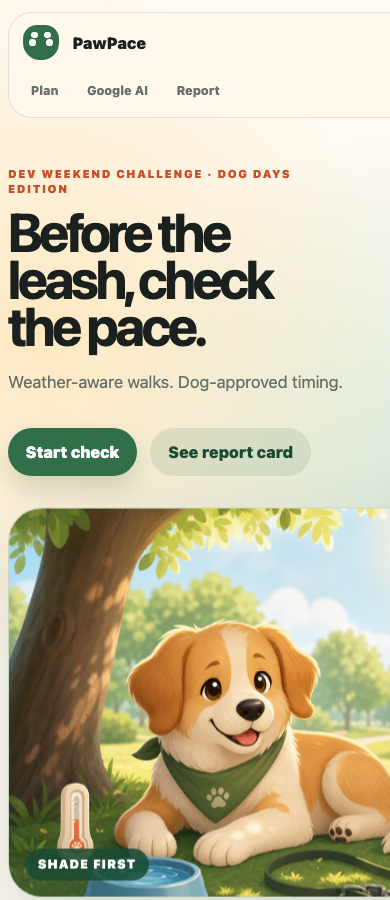
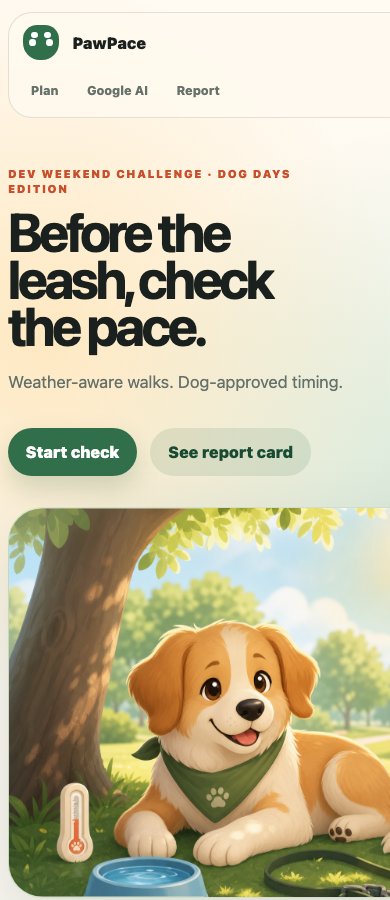
Animate PawPace dog hero without text badge

diff --git a/dog-days/styles.css b/dog-days/styles.css
@@ -279,6 +279,7 @@ select:focus-visible,
     linear-gradient(120deg, rgba(255, 255, 255, 0.26), transparent 28%),
     radial-gradient(circle at 78% 18%, rgba(255, 211, 91, 0.28), transparent 20%);
   pointer-events: none;
+  z-index: 1;
 }
 
 .hero-dog-image {
@@ -289,21 +290,62 @@ select:focus-visible,
   object-fit: cover;
   object-position: 50% center;
   transform: scale(1.015);
+  animation: hero-image-drift 9s ease-in-out infinite;
 }
 
-.heat-badge {
+.sun-pulse,
+.leaf-drift,
+.water-shimmer {
   position: absolute;
-  left: 1rem;
-  bottom: 1rem;
-  padding: 0.55rem 0.8rem;
-  color: #fff;
-  font-size: 0.78rem;
-  font-weight: 950;
-  letter-spacing: 0.08em;
-  text-transform: uppercase;
-  border-radius: 999px;
-  background: rgba(24, 75, 50, 0.86);
-  box-shadow: 0 12px 28px rgba(24, 75, 50, 0.18);
+  z-index: 2;
+  pointer-events: none;
+}
+
+.sun-pulse {
+  top: 10%;
+  right: 7%;
+  width: 7.5rem;
+  aspect-ratio: 1;
+  border-radius: 50%;
+  background: radial-gradient(circle, rgba(255, 221, 107, 0.38), transparent 66%);
+  animation: sun-soft-pulse 4.8s ease-in-out infinite;
+}
+
+.leaf-drift {
+  width: 1.25rem;
+  height: 0.62rem;
+  border-radius: 100% 0 100% 0;
+  background: rgba(122, 167, 47, 0.76);
+  filter: drop-shadow(0 0.25rem 0.35rem rgba(24, 75, 50, 0.14));
+}
+
+.leaf-one {
+  top: 13%;
+  left: 19%;
+  animation: leaf-float-one 8s ease-in-out infinite;
+}
+
+.leaf-two {
+  top: 18%;
+  left: 27%;
+  width: 1rem;
+  height: 0.5rem;
+  background: rgba(173, 191, 63, 0.7);
+  animation: leaf-float-two 9.5s ease-in-out infinite;
+}
+
+.water-shimmer {
+  left: 13%;
+  bottom: 14%;
+  width: 11.8rem;
+  height: 4.2rem;
+  border-radius: 50%;
+  background:
+    radial-gradient(ellipse at 45% 43%, rgba(255, 255, 255, 0.46), transparent 12%),
+    linear-gradient(100deg, transparent 0 42%, rgba(255, 255, 255, 0.34) 48%, transparent 56%);
+  mix-blend-mode: screen;
+  opacity: 0.45;
+  animation: water-glint 3.4s ease-in-out infinite;
 }
 
 .section-heading {
@@ -693,6 +735,64 @@ input[type="radio"] {
   }
 }
 
+@keyframes hero-image-drift {
+  0%,
+  100% {
+    transform: scale(1.015) translate3d(0, 0, 0);
+  }
+  50% {
+    transform: scale(1.035) translate3d(-0.35rem, -0.2rem, 0);
+  }
+}
+
+@keyframes sun-soft-pulse {
+  0%,
+  100% {
+    opacity: 0.55;
+    transform: scale(0.94);
+  }
+  50% {
+    opacity: 0.9;
+    transform: scale(1.08);
+  }
+}
+
+@keyframes leaf-float-one {
+  0%,
+  100% {
+    transform: translate3d(0, 0, 0) rotate(12deg);
+    opacity: 0.34;
+  }
+  50% {
+    transform: translate3d(1.2rem, 0.65rem, 0) rotate(36deg);
+    opacity: 0.82;
+  }
+}
+
+@keyframes leaf-float-two {
+  0%,
+  100% {
+    transform: translate3d(0, 0, 0) rotate(-18deg);
+    opacity: 0.28;
+  }
+  50% {
+    transform: translate3d(-0.9rem, 0.9rem, 0) rotate(-44deg);
+    opacity: 0.76;
+  }
+}
+
+@keyframes water-glint {
+  0%,
+  100% {
+    transform: translateX(-0.4rem) scaleX(0.94);
+    opacity: 0.22;
+  }
+  50% {
+    transform: translateX(0.55rem) scaleX(1.04);
+    opacity: 0.48;
+  }
+}
+
 @media (max-width: 860px) {
   .site-header {
     align-items: flex-start;
@@ -796,6 +896,22 @@ input[type="radio"] {
   .dog-card {
     width: 100%;
     min-height: 390px;
+  }
+
+  .sun-pulse {
+    right: -1rem;
+    width: 6rem;
+  }
+
+  .leaf-drift {
+    display: none;
+  }
+
+  .water-shimmer {
+    left: 4%;
+    bottom: 5%;
+    width: 7.2rem;
+    height: 2.7rem;
   }
 }
 

diff --git a/dog-days/index.html b/dog-days/index.html
@@ -60,7 +60,10 @@
             src="assets/pawpace-hero-dog-cute.png"
             alt="A happy fluffy dog resting in tree shade with a water bowl, leash, and warm sun nearby."
           />
-          <span class="heat-badge" aria-hidden="true">Shade first</span>
+          <span class="sun-pulse" aria-hidden="true"></span>
+          <span class="leaf-drift leaf-one" aria-hidden="true"></span>
+          <span class="leaf-drift leaf-two" aria-hidden="true"></span>
+          <span class="water-shimmer" aria-hidden="true"></span>
         </div>
       </section>
 
